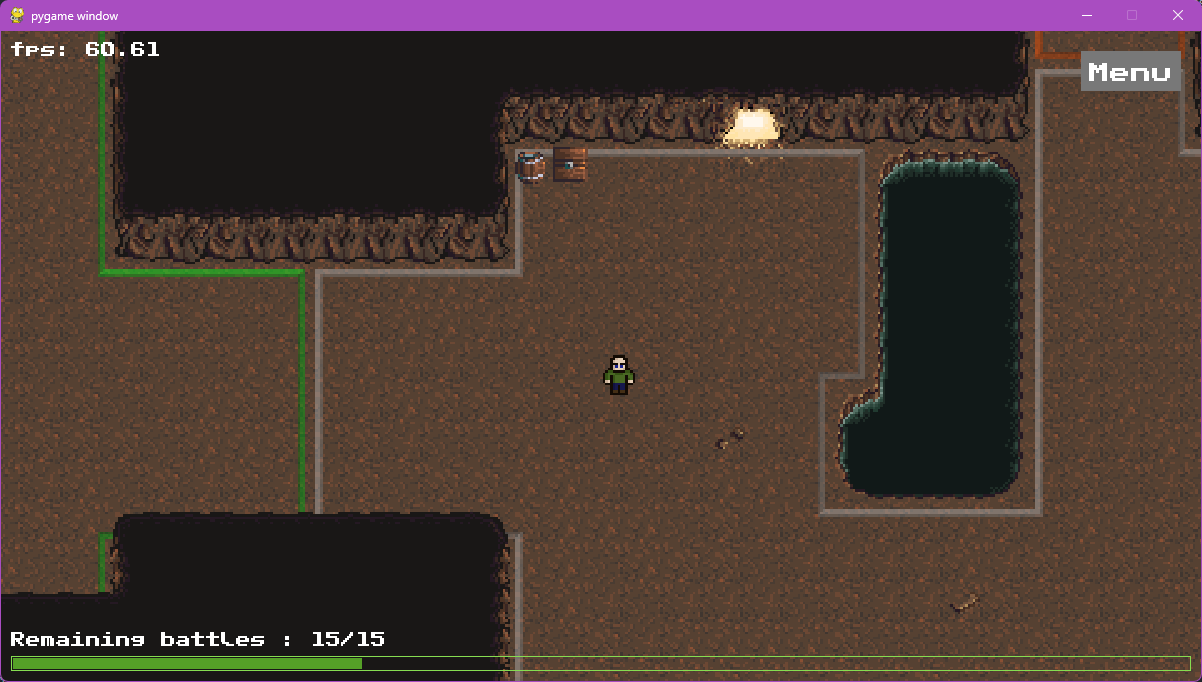
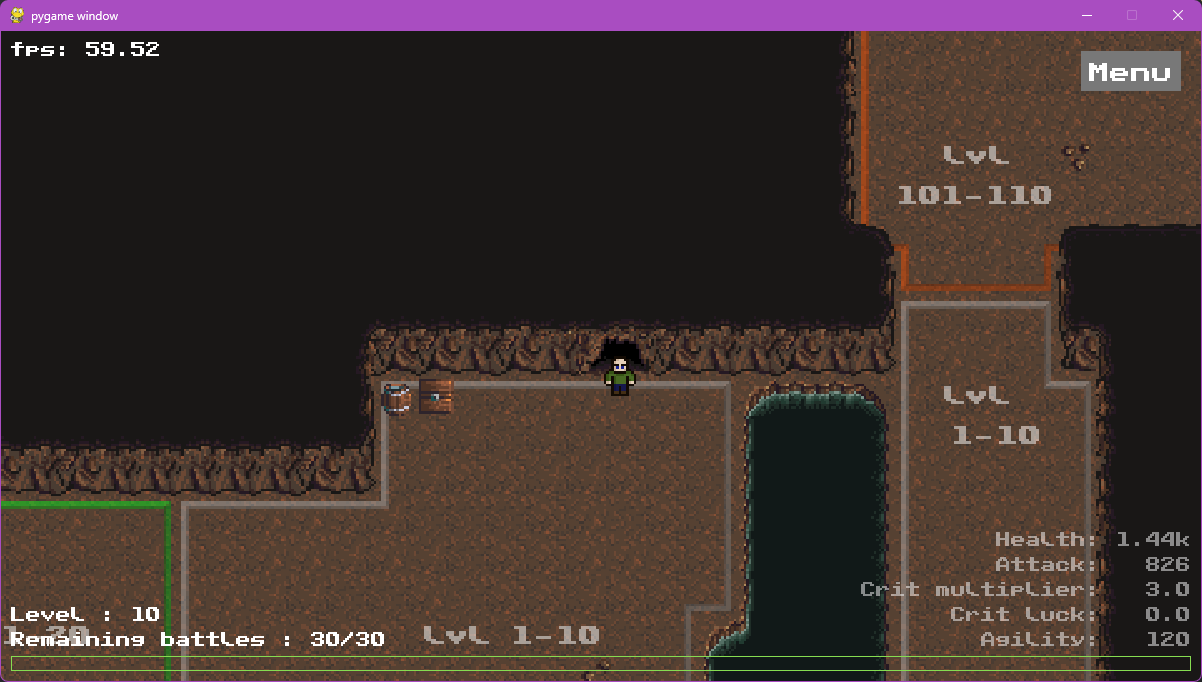
modifications rapport

diff --git a/README.md b/README.md
@@ -67,10 +67,25 @@ python main.py
 ```
 
 Si vous rencontrez des difficultés à installer les dépendances où lancer le projet, n'hésitez pas à nous contacter sur discord. (vous nous aviez par exemple expliqué que vous aviez des difficultés avec vos versions de python)
+
 ## Première partie de jeu
 
-Une fois le jeu lancé pour la première fois et la partie lancé, vous atterissez dans une grotte. A partir de ce moment, tout mouvement augmente la chance de lancer un combat. Cette chance est visible grâce à la barre de progression en bas de l'écran.
-On peut également observer le nombre de combats restants avant la fin de la partie.
+Une fois le jeu lancé pour la première fois et la partie lancé, vous atterissez dans une grotte. 
+La première chose qui vous sera proposé est de définir vos stats de départ. En effet, pour ne pas mourir dans la première zone, vous commencez le jeu au niveau 10.
+
+![](screenshots/0.png)
+
+### explication des points de stats :
+- Health : représente la vie du personnage. Est ensuite multiplié suivant le niveau d'armure.
+- Attack : représente l'attaque du personnage. Est ensuite multiplié suivnt le niveau de l'épée.
+- Crit luck : votre chance d'effectuer un coup critique est relative à cette valeur. ( $1 - \frac{1}{log_{10}(10 + points)}$ )
+- Agility : représente votre vitesse. En combat, l'entité ayant le plus de vitesse attaquera en premier.
+
+
+Une fois tout vos points réparti, vous pouvez cliquer sur "done". Vous pourrez ensuite commencer à vous déplacer.
+
+A partir de ce moment, tout mouvement augmente la chance de lancer un combat. Cette chance est visible grâce à la barre de progression en bas de l'écran.
+On peut également voir à gauche le niveau du joueur ainsi que le nombre de combats restant avant la fin de la partie, et à droite, on peut voir toutes les stats du joueur avec l'équipement d'appliqué (contrairement au menu des points de stats).
 
 ![](screenshots/1.png)
 
@@ -79,27 +94,26 @@ Attention à la zone dans laquelle vous vous trouvez, aller dans une zone de tro
 Au bout d'un moment, un combat vas se lancer.
 Les combats se joue automatiquement, vous n'avez donc pas à vous en faire.
 
-![](https://dummyimage.com/1200x650/000000/fff.png&text=Screenshot+combats)
+![](screenshots/2.png)
 
-Une fois le combat terminé, proportionnellement à la différence de niveaux entre vous et l'ennemi, vous gagnerez des points, que vous pourrez répartir a partir du menu des stats. Il se trouve en haut à droite (*Menu* -> *Stats*)
+Une fois le combat terminé, proportionnellement à la différence de niveaux entre vous et l'ennemi, vous augmenterez de niveau, et gagnerez des points, que vous pourrez répartir à partir du menu des stats. Il se trouve en haut à droite (*Menu* -> *Stats*)
 
-![](screenshots/3.png)
+![](screenshots/0.png)
 
 Vous pourrez grâce à vous stats nouvellement acquisent aller dans des zones de plus hant niveau afin d'avancer dans le jeu. Votre but est donc de monter le plus rapidement possible dans de hautes zones afin de pouvoir en fin de partie gagner plus d'argent, et acheter de meilleur equipement pour la prochaine partie. (l'equipement permettant de multiplier différentes stats, et donc de pouvoir monter dans de plus hautes zones à la partie suivante et gagner plus d'argent, ect...).
 
-Une fois la partie terminé, il y a donc cet ecran qui s'ouvre. Vous pouvez ici acheter de l'equipement qui servira au prochaines parties.
+Une fois la partie terminé (les 30 combats écoulés), il y a donc cet ecran qui s'ouvre. Vous pouvez ici acheter de l'equipement qui servira au prochaines parties.
 
 ![](screenshots/5.png)
 
 Attention, essayez d'acheter un maximum, car une fois cet ecran quitté, votre argent restant sera perdu !
 
-## Fonctionnalités manquantes
 
-Irure labore qui irure mollit est sint dolor do velit enim adipisicing ea exercitation do. Qui ullamco reprehenderit ullamco excepteur est esse esse nisi. Lorem nulla exercitation dolor occaecat cupidatat voluptate adipisicing ut minim ut sunt occaecat reprehenderit proident. Lorem Lorem enim et non nulla labore elit nulla officia anim magna. Nisi enim est do consequat commodo fugiat veniam quis proident culpa quis exercitation fugiat duis. Proident commodo eu sunt labore id elit. Irure Lorem amet culpa pariatur cillum.
+### comment terminer le jeu :
 
-Tempor sit nulla consectetur minim dolore eu do duis do occaecat dolore non elit. Eiusmod cupidatat Lorem ex magna ut ad esse adipisicing aute proident. Sit laboris aliqua anim Lorem do. Tempor est labore mollit id id aliquip cillum nostrud cillum proident. Sunt fugiat ut commodo duis do labore adipisicing ex duis. Veniam aliquip anim dolore nostrud quis consectetur nisi aliqua id sunt occaecat.
+Le jeu à été equilibré et testé de façon à ce que avec tout l'équipement au max, on puisse faire le tour des salles et aller dans la  dernière salle (niveau 200-210). Vous trouverez là-bas la sortie de la grotte (une porte avec de la lumière). en traversant cette porte, vous lancerez un combat contre le boss, et si vous le battez, vous pourrez voir les crédits.
 
-Commodo sit occaecat qui consectetur ullamco labore. Ex reprehenderit dolore sint anim ut minim pariatur quis ad ullamco sunt enim aliqua irure. Qui dolor id do veniam ad proident consectetur tempor culpa ad magna elit. Sit quis amet magna aliquip exercitation labore culpa irure sint. Incididunt ut adipisicing id laboris minim. Eu ex eu dolore laboris nisi.
+![](screenshots/7.png)
 
 ## Structure du code
 
@@ -112,6 +126,16 @@ Dans le dossier `src`, on le fichier `main.py` qui permet de lancer le jeu, ains
 Celà permet d'à peut près séparer ce qui est noté du reste (principalement `display`)
 
 Nous avons essayé de commenter au mieux le code, en donnant la priorité au fichiers les plus importants.
+
+## Fonctionnalités manquantes
+
+Nous avons beaucoup travaillé pendant les vancances, donc nous avons à peut près fait tout ce que nous voulions pour ce projet.
+
+En terme de combats, nous aurions peu faire de plus belles animations pour les ennemis, et rendre les combats plus vivants.
+
+Nous aurions peu aussi augmenter la taille de la map et la détailler pour augmenter le temps de vie du jeu.
+
+Enfin, le jeu ne contient pas de cheats-codes. nous aurions peu en ajouter. Nous en avons pas eu besoin pour le développement car nous avons délibérément choisis d'utiliser du json pour les saves, afin de pouvoir les modifier à la main.
 ## Répartition du travail
 
 Nous avons essayé de nous répartir au mieux le travail, bien que travailler pendant les vacances de noël s'est révélé beaucoup plus dûr que prévu.
